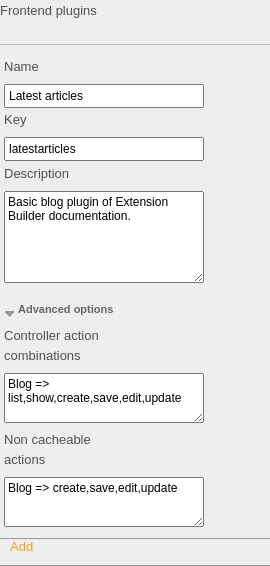
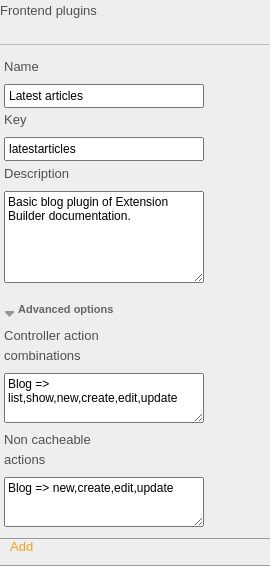
[DOCS] Fix controller action names in blog example
The default controller action names are "new" and "create" instead of
"create" and "save". Compare with the "Default actions" section of the
blog domain object.

Changed region(s): [[0.2074, 0.6908, 0.6815, 0.7208], [0.2074, 0.841, 0.6519, 0.871]]

diff --git a/Documentation/GraphicalEditor/Index.rst b/Documentation/GraphicalEditor/Index.rst
@@ -316,7 +316,7 @@ TYPO3 content element "General Plugin".
 |                                   |                                                                                             |
 |                                   |.. code-block:: none                                                                         |
 |                                   |                                                                                             |
-|                                   |   Blog => list,show,create,save,edit,update                                                 |
+|                                   |   Blog => list,show,new,create,edit,update                                                  |
 |                                   |   Author => list,show                                                                       |
 |                                   |                                                                                             |
 +-----------------------------------+---------------------------------------------------------------------------------------------+
@@ -327,7 +327,7 @@ TYPO3 content element "General Plugin".
 |                                   |                                                                                             |
 |                                   |.. code-block:: none                                                                         |
 |                                   |                                                                                             |
-|                                   |   Blog => create,save,edit,update                                                           |
+|                                   |   Blog => new,create,edit,update                                                            |
 |                                   |                                                                                             |
 +-----------------------------------+---------------------------------------------------------------------------------------------+
 
@@ -365,8 +365,8 @@ backend.
 |                                   |                                                                                             |
 |                                   |.. code-block:: none                                                                         |
 |                                   |                                                                                             |
-|                                   |   Blog => list,show,create,save,edit,update,delete,duplicate                                |
-|                                   |   Author => list,show,create,save,edit,update,delete                                        |
+|                                   |   Blog => list,show,new,create,edit,update,delete,duplicate                                 |
+|                                   |   Author => list,show,new,create,edit,update,delete                                         |
 |                                   |                                                                                             |
 +-----------------------------------+---------------------------------------------------------------------------------------------+
 
